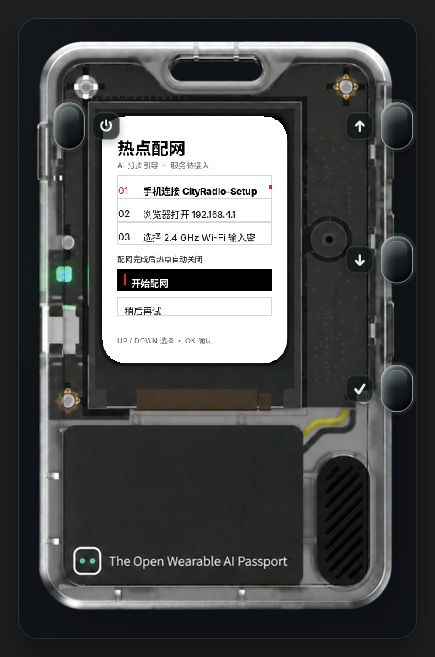
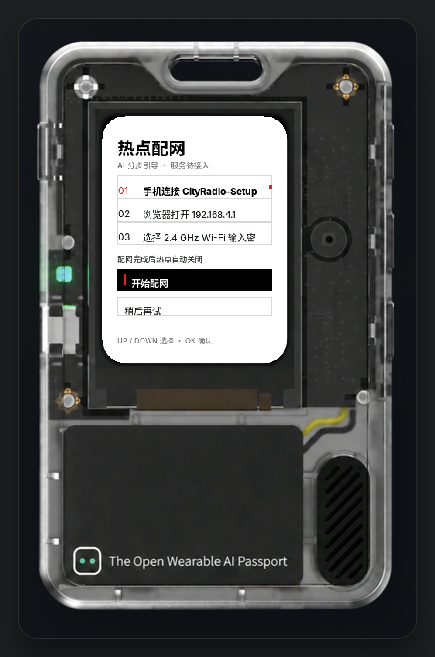
Refine simulator button overlays

diff --git a/Sources/AIPassportFlasher/Views/SimulatorView.swift b/Sources/AIPassportFlasher/Views/SimulatorView.swift
@@ -756,25 +756,6 @@ final class SimulatorWebController: ObservableObject {
         catch { FileHandle.standardError.write(Data("[snapshot] write \(url.lastPathComponent) failed: \(error)\n".utf8)) }
     }
 
-    func captureLongPressPreview(to url: URL) async {
-        guard let webView else { return }
-        let show = """
-        (() => {
-          const button = document.querySelector('.hardware-key[data-key="OK"]');
-          if (!button) return false;
-          button.classList.add('is-pressed', 'apf-holding');
-          const ring = button.querySelector('.apf-hold-ring rect');
-          if (ring) ring.style.strokeDashoffset = '0.28';
-          return true;
-        })()
-        """
-        _ = try? await webView.evaluateJavaScript(show)
-        await captureDevice(to: url)
-        _ = try? await webView.evaluateJavaScript(
-            "(() => { const b = document.querySelector('.hardware-key[data-key=\"OK\"]'); if (b) { b.classList.remove('is-pressed', 'apf-holding'); const r = b.querySelector('.apf-hold-ring rect'); if (r) r.style.strokeDashoffset = '1'; } })()"
-        )
-    }
-
     func snapshotWebView() async -> NSImage? {
         await snapshot(configuration: nil)
     }
@@ -1164,10 +1145,10 @@ enum SimulatorBridgeScript {
           shell.appendChild(content);
         }
         const keyVisuals = {
-          POWER: { icon: '⏻', title: '电源 · P · 长按 2 秒', hold: 2000 },
-          UP: { icon: '↑', title: '向上 · 键盘 ↑', hold: 0 },
-          DOWN: { icon: '↓', title: '向下 · 键盘 ↓', hold: 0 },
-          OK: { icon: '✓', title: '确认 · Return · 长按 0.5 秒', hold: 500 },
+          POWER: { title: '电源 · P · 长按 2 秒', hold: 2000 },
+          UP: { title: '向上 · 键盘 ↑', hold: 0 },
+          DOWN: { title: '向下 · 键盘 ↓', hold: 0 },
+          OK: { title: '确认 · Return · 长按 0.5 秒', hold: 500 },
         };
         const keyButtons = new Map();
         const activeHolds = new Map();
@@ -1224,10 +1205,7 @@ enum SimulatorBridgeScript {
 
           const face = document.createElement('span');
           face.className = 'apf-key-face';
-          const label = document.createElement('span');
-          label.className = 'apf-key-label';
-          label.textContent = visual.icon;
-          button.append(face, label);
+          button.append(face);
 
           if (visual.hold) {
             const ring = document.createElementNS('http://www.w3.org/2000/svg', 'svg');
@@ -1332,81 +1310,51 @@ enum SimulatorTheme {
       pointer-events: none !important;
     }
     .hardware-key.apf-physical-key {
-      --apf-key-x: -50%;
-      width: clamp(28px, 4.5%, 34px) !important;
+      width: 3.9% !important;
       min-width: 28px !important;
-      height: clamp(40px, 7%, 48px) !important;
-      min-height: 40px !important;
+      height: 5.2% !important;
+      min-height: 28px !important;
       padding: 0 !important;
       overflow: visible !important;
       pointer-events: auto !important;
       appearance: none !important;
-      border: 1px solid rgba(239, 248, 245, .50) !important;
-      border-radius: 999px !important;
-      color: #F2F8F5 !important;
-      background:
-        linear-gradient(90deg, rgba(255, 255, 255, .32), rgba(255, 255, 255, .08) 28%, transparent 47%),
-        linear-gradient(155deg, rgba(102, 116, 116, .92), rgba(24, 31, 33, .98) 48%, rgba(7, 10, 12, .98)) !important;
-      box-shadow:
-        inset 1px 1px 1px rgba(255, 255, 255, .38),
-        inset -2px -3px 5px rgba(0, 0, 0, .72),
-        0 4px 8px rgba(0, 0, 0, .48),
-        0 0 0 3px rgba(225, 240, 235, .10) !important;
+      border: 1px solid transparent !important;
+      border-radius: 42% !important;
+      color: transparent !important;
+      background: transparent !important;
+      box-shadow: none !important;
       text-shadow: none !important;
-      transform: translateX(var(--apf-key-x)) translateY(0) scale(1) !important;
+      transform: translateY(0) scale(1) !important;
       transition:
         transform .10s cubic-bezier(.2, .8, .2, 1),
         border-color .15s ease,
-        box-shadow .15s ease,
-        filter .15s ease !important;
+        background .15s ease,
+        box-shadow .15s ease !important;
     }
     .hardware-key.apf-physical-key .apf-key-face {
       position: absolute;
-      inset: 4px 5px 5px;
+      inset: 1px;
       border-radius: inherit;
-      background: linear-gradient(180deg, rgba(255, 255, 255, .16), transparent 48%) !important;
-      box-shadow: inset 0 1px 0 rgba(255, 255, 255, .16);
+      background: transparent !important;
+      box-shadow: none;
       pointer-events: none;
-    }
-    .hardware-key.apf-physical-key .apf-key-label {
-      position: absolute;
-      top: 50%;
-      right: calc(100% + 8px);
-      width: 28px;
-      height: 28px;
-      display: grid;
-      place-items: center;
-      border: 1px solid rgba(255, 255, 255, .16);
-      border-radius: 9px;
-      color: rgba(244, 249, 247, .94);
-      background: rgba(17, 22, 23, .78) !important;
-      box-shadow: 0 3px 10px rgba(0, 0, 0, .24), inset 0 1px 0 rgba(255, 255, 255, .08);
-      backdrop-filter: blur(9px);
-      font: 700 15px/1 -apple-system, BlinkMacSystemFont, "SF Pro Text", sans-serif !important;
-      letter-spacing: 0 !important;
-      transform: translateY(-50%);
-      pointer-events: none;
-    }
-    .hardware-key.apf-physical-key.key-power .apf-key-label {
-      right: auto;
-      left: calc(100% + 8px);
-      font-size: 14px !important;
+      transition: background .15s ease, box-shadow .15s ease;
     }
     .hardware-key.apf-physical-key .apf-hold-ring {
       position: absolute;
-      inset: -5px;
-      width: calc(100% + 10px);
-      height: calc(100% + 10px);
+      inset: -3px;
+      width: calc(100% + 6px);
+      height: calc(100% + 6px);
       overflow: visible;
       opacity: 0;
       pointer-events: none;
-      filter: drop-shadow(0 0 4px rgba(32, 228, 124, .60));
+      filter: drop-shadow(0 0 2px rgba(32, 228, 124, .45));
       transition: opacity .12s ease;
     }
     .hardware-key.apf-physical-key .apf-hold-ring rect {
       fill: none;
       stroke: #20E47C;
-      stroke-width: 2;
+      stroke-width: 1.5;
       stroke-linecap: round;
       stroke-dasharray: 1;
       stroke-dashoffset: 1;
@@ -1418,55 +1366,44 @@ enum SimulatorTheme {
       opacity: 1;
     }
     .hardware-key.apf-physical-key:hover {
-      border-color: rgba(32, 228, 124, .92) !important;
-      filter: brightness(1.08);
+      border-color: rgba(32, 228, 124, .58) !important;
+      background: rgba(32, 228, 124, .055) !important;
       box-shadow:
-        inset 1px 1px 1px rgba(255, 255, 255, .44),
-        inset -2px -3px 5px rgba(0, 0, 0, .68),
-        0 4px 9px rgba(0, 0, 0, .48),
-        0 0 14px rgba(32, 228, 124, .34) !important;
+        inset 0 1px 0 rgba(255, 255, 255, .16),
+        0 0 8px rgba(32, 228, 124, .20) !important;
+    }
+    .hardware-key.apf-physical-key:hover .apf-key-face {
+      background: linear-gradient(90deg, rgba(255, 255, 255, .10), transparent 48%) !important;
     }
     .hardware-key.apf-physical-key:active,
     .hardware-key.apf-physical-key.is-pressed {
-      transform: translateX(var(--apf-key-x)) translateY(2px) scale(.92) !important;
-      border-color: rgba(32, 228, 124, .90) !important;
+      transform: translateY(1px) scale(.94) !important;
+      border-color: rgba(32, 228, 124, .72) !important;
+      background: rgba(7, 12, 10, .18) !important;
       box-shadow:
-        inset 2px 4px 8px rgba(0, 0, 0, .82),
-        inset 0 1px 0 rgba(255, 255, 255, .12),
-        0 1px 2px rgba(0, 0, 0, .36),
-        0 0 12px rgba(32, 228, 124, .28) !important;
-      filter: brightness(.90);
+        inset 0 2px 4px rgba(0, 0, 0, .38),
+        0 0 6px rgba(32, 228, 124, .16) !important;
     }
     .hardware-key.apf-physical-key.apf-long-ready {
-      border-color: #20E47C !important;
-      box-shadow:
-        inset 1px 1px 1px rgba(255, 255, 255, .38),
-        inset -2px -3px 5px rgba(0, 0, 0, .68),
-        0 0 18px rgba(32, 228, 124, .62) !important;
+      border-color: rgba(32, 228, 124, .78) !important;
+      box-shadow: 0 0 9px rgba(32, 228, 124, .30) !important;
     }
     .hardware-key.apf-physical-key:focus-visible {
       outline: 2px solid #20E47C !important;
-      outline-offset: 5px !important;
+      outline-offset: 2px !important;
     }
     .hardware-key.apf-physical-key.key-up,
     .hardware-key.apf-physical-key.key-down,
     .hardware-key.apf-physical-key.key-ok {
-      left: 74.95% !important;
+      left: 73% !important;
     }
-    .hardware-key.apf-physical-key.key-up { top: 16.2% !important; }
-    .hardware-key.apf-physical-key.key-down { top: 35.9% !important; }
-    .hardware-key.apf-physical-key.key-ok { top: 54.9% !important; }
+    .hardware-key.apf-physical-key.key-up { top: 17.1% !important; }
+    .hardware-key.apf-physical-key.key-down { top: 36.8% !important; }
+    .hardware-key.apf-physical-key.key-ok { top: 55.8% !important; }
     .hardware-key.apf-physical-key.key-power {
-      left: 29.25% !important;
-      top: 16.2% !important;
-    }
-    @media (prefers-color-scheme: light) {
-      .hardware-key.apf-physical-key .apf-key-label {
-        border-color: rgba(14, 45, 31, .15);
-        color: #183128;
-        background: rgba(247, 251, 249, .90) !important;
-        box-shadow: 0 3px 10px rgba(15, 31, 24, .18), inset 0 1px 0 rgba(255, 255, 255, .72);
-      }
+      left: 27.2% !important;
+      top: 17.1% !important;
+      width: 4.1% !important;
     }
     """
 }

diff --git a/Sources/AIPassportFlasher/App/SnapshotDriver.swift b/Sources/AIPassportFlasher/App/SnapshotDriver.swift
@@ -118,10 +118,6 @@ enum SnapshotDriver {
             )
             await controller.captureDevice(to: dir.appendingPathComponent("real-simulator-buttons.png"))
             log("captured real-simulator-buttons.png")
-            await controller.captureLongPressPreview(
-                to: dir.appendingPathComponent("real-simulator-buttons-long-press.png")
-            )
-            log("captured real-simulator-buttons-long-press.png")
         } else {
             await capture(window: window, to: dir.appendingPathComponent("real-simulator.png"))
         }
